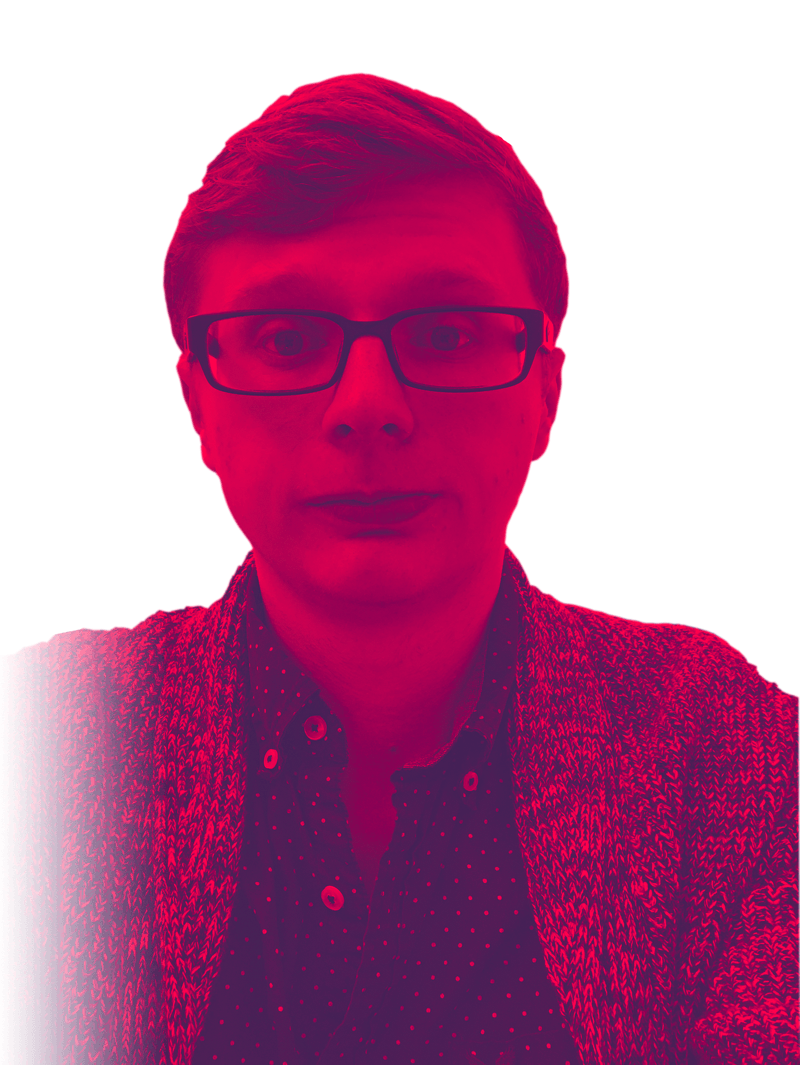
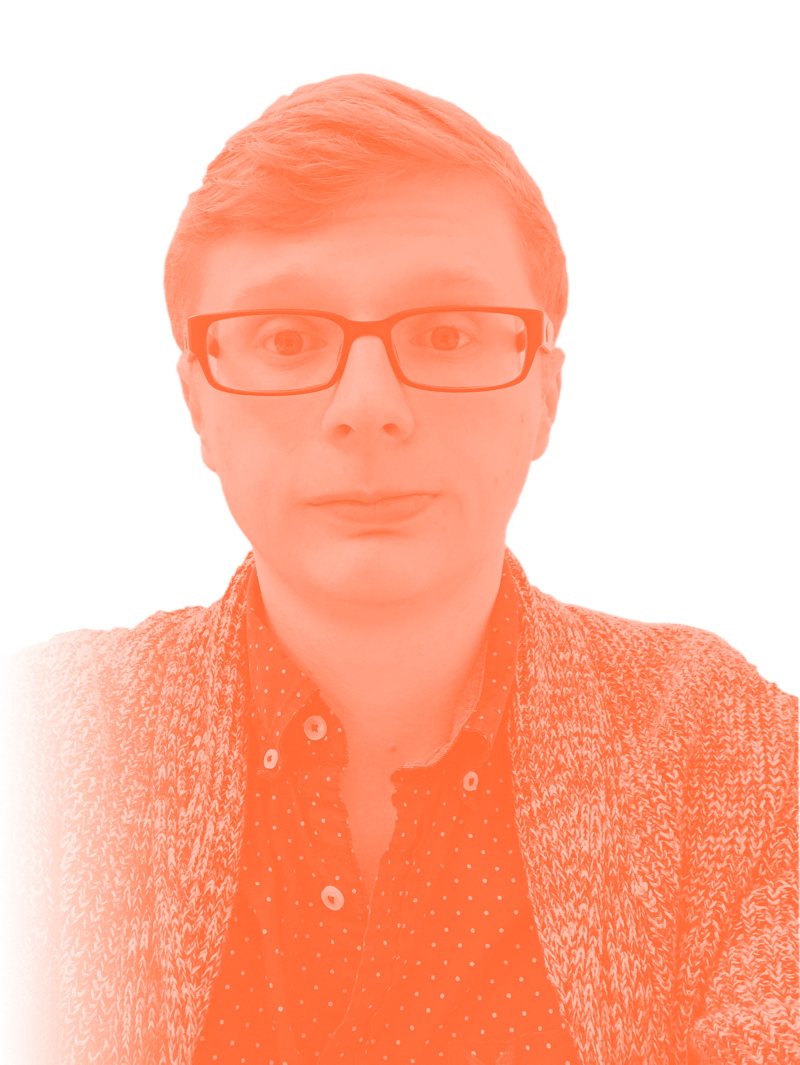
Fonts!

diff --git a/index.html b/index.html
@@ -5,11 +5,11 @@ title: Chase McCoy
 
 <div class="introduction bg-brand-accent clearfix table">
   <div class="pt6 pl10 pb6 col-xs-12 col-sm-6 float-none table-cell">
-    <p class="h1 extrabold color-white" id="site-title">Chase McCoy</p>
+    <p class="h1 extrabold color-cream" id="site-title">Chase McCoy</p>
 
-    <hr class="bg-component my3">
+    <hr class="bg-page my3">
 
-    <p class="pt4 h3 line-height-2 color-white">Lorem ipsum dolor sit amet, consectetur adipisicing elit, sed do eiusmod tempor incididunt ut labore et dolore magna aliqua.
+    <p class="pt4 h3 line-height-2 color-cream">Lorem ipsum dolor sit amet, consectetur adipisicing elit, sed do eiusmod tempor incididunt ut labore et dolore magna aliqua.
       Ut enim ad minim veniam, quis nostrud exercitation ullamco laboris nisi ut aliquip ex ea commodo consequat.</p>
   </div>
 
@@ -20,26 +20,49 @@ title: Chase McCoy
 <div class="nav" id="nav">
   <!-- <div class="nav-bar bg-brand-primary"></div> -->
 
-  <div class="rainbow">
+  <!-- <div class="rainbow">
     <div class="r1"></div>
     <div class="r2"></div>
     <div class="r3"></div>
     <div class="r4"></div>
     <div class="r5"></div>
     <div class="r6"></div>
+  </div> -->
+</div>
+
+<div class="portfolio bg-page">
+  <div class="container">
+    <div class="flex items-center pb6">
+      <div class="col-xs-12 col-sm-12 col-md-5">
+        <div class="h2 color-brand-primary bold portfolio-title">Portfolio</div>
+        <hr class="bg-brand-accent">
+      </div>
+
+      <div class="col-xs-12 col-sm-12 col-md-7">
+        <div class="color-brand-accent h4 line-height-3 py4 bold serif">Lorem ipsum dolor sit amet, consectetur adipisicing elit, sed do eiusmod tempor incididunt ut labore et dolore magna aliqua.</div>
+      </div>
+    </div>
+
+    <div class="portfolio-item clearfix">
+      <div class="col-md-12">
+        <img class="col-md-5 image px0" src="/assets/portfolio/owlery.png">
+        <span class="h3 color-brand-accent title">The Owlery</span><br>
+        <span class="h4 line-height-3 description">Lorem ipsum dolor sit amet, consectetur adipisicing elit, sed do eiusmod tempor incididunt ut labore et dolore magna aliqua. Ut enim ad minim veniam, quis nostrud exercitation ullamco laboris nisi ut aliquip ex ea commodo consequat. Duis aute irure dolor in reprehenderit in voluptate velit esse cillum dolore eu fugiat nulla pariatur. Excepteur sint occaecat cupidatat non proident, sunt in culpa qui officia deserunt mollit anim id est laborum.</span>
+      </div>
+    </div>
   </div>
 </div>
 
 <div class="portfolio bg-brand-primary">
-  <div class="container px0">
+  <div class="container">
     <div class="flex items-center">
-      <div class="col-xs-12 col-sm-12 col-md-7">
-        <div class="h2 color-white bold" id="portfolio-title">Portfolio</div>
+      <div class="col-xs-12 col-sm-12 col-md-5">
+        <div class="h2 color-cream bold portfolio-title">Portfolio</div>
         <hr class="bg-brand-accent">
       </div>
 
-      <div class="col-xs-12 col-sm-12 col-md-5">
-        <div class="color-brand-accent h4 line-height-3 py4">Lorem ipsum dolor sit amet, consectetur adipisicing elit, sed do eiusmod tempor incididunt ut labore et dolore magna aliqua.</div>
+      <div class="col-xs-12 col-sm-12 col-md-7">
+        <div class="color-cream h4 line-height-3 py4 bold serif">Lorem ipsum dolor sit amet, consectetur adipisicing elit, sed do eiusmod tempor incididunt ut labore et dolore magna aliqua.</div>
       </div>
     </div>
 

diff --git a/_sass/_config.scss b/_sass/_config.scss
@@ -98,9 +98,9 @@ $layout-count: 32;
 // ----------------------
 
 // Fonts
-$sans: "Tisa Sans Pro", "Proxima Nova", sans-serif;
-$serif: "Tisa Pro", serif;
-$script: "Lust Script", serif;
+$sans: "pt-sans", "Tisa Sans Pro", "Proxima Nova", sans-serif;
+$serif: "pt-serif", "Tisa Pro", serif;
+$script: "lust-script-display", "Lust Script", serif;
 
 //  TYPE SCALE ------------
 // Here we define the sizes for our heading elements using rem units.
@@ -111,7 +111,7 @@ $script: "Lust Script", serif;
 /// Font size for H1 elements
 /// @type Number (rem)
 /// @group Config
-$h1: 3.5rem;      // 32px
+$h1: 3.0rem;      // 32px
 
 /// Font size for H2 elements
 /// @type Number (rem)
@@ -121,7 +121,7 @@ $h2: 2.5rem;    // 24px
 /// Font size for H3 elements
 /// @type Number (rem)
 /// @group Config
-$h3: 2rem;   // 20px
+$h3: 2.0rem;   // 20px
 
 /// Font size for H4 elements
 /// @type Number (rem)
@@ -131,7 +131,7 @@ $h4: 1.5rem;      // 16px
 /// Font size for H5 elements
 /// @type Number (rem)
 /// @group Config
-$h5: 1rem;  // 14px
+$h5: 1.0rem;  // 14px
 
 /// Font size for H6 elements
 /// @type Number (rem)
@@ -190,6 +190,7 @@ $border-pill: 32px;
 // UI Color Definitions
 $white: #FFFFFF;
 $black: #000000;
+$cream: #FEFEF3;
 $phantom-gray: #56718C;
 $wraith-gray: #BCD3DE;
 $ghost-gray: #E1ECF2;
@@ -198,13 +199,14 @@ $shade-gray: #B7C3CE;
 $ui-palette: (
   white: $white,
   primary: $black,
+  cream: $cream,
   secondary: $phantom-gray,
   tertiary: $wraith-gray,
   placeholder: $ghost-gray,
 );
 
 $brand-primary-color: #3C2353;
-$brand-accent-color: #FF0051;
+$brand-accent-color: #f37042;
 
 $brand-primary: (
   brand-primary: $brand-primary-color,

diff --git a/_includes/footer.html b/_includes/footer.html
@@ -6,7 +6,7 @@
 <script src="assets/js/jquery.fittext.js"></script>
 <script>
   jQuery("#site-title").fitText(0.5);
-  jQuery("#portfolio-title").fitText(0.9);
+  jQuery(".portfolio-title").fitText(0.6);
 </script>
 
 <script src="assets/js/jribbble.min.js"></script>
@@ -20,15 +20,15 @@
     shots.forEach(function(shot) {
       var images = shot.images;
       var img = (images.hidpi) ? images.hidpi : images.normal;
-      html.push('<li class="shot px0">');
+      html.push('<li class="shot col-xs-12 col-sm-4 col-md-3">');
         html.push('<div class="shot card bg-component">');
           html.push('<a class="text-decoration-none" href="' + shot.html_url + '" target="_blank">');
           html.push('<div class="shot cover bg-brand-component" style="background-image: url(' + img + ')"></div></a>');
-          html.push('<div class="shot info"><a class="text-decoration-none color-brand-primary" href="' + shot.html_url + '" target="_blank"><h3 class="color-brand-primary bold center pb1">' + shot.title + '</h3></a>');
-          if (shot.description) {
-            html.push(shot.description);
-          }
-          html.push('</div>');
+          // html.push('<div class="shot info"><a class="text-decoration-none color-brand-primary" href="' + shot.html_url + '" target="_blank"><h3 class="color-brand-primary bold center pb1">' + shot.title + '</h3></a>');
+          // if (shot.description) {
+          //   html.push(shot.description);
+          // }
+          // html.push('</div>');
         html.push('</div>');
       html.push('</li>');
     });

diff --git a/_sass/landing.scss b/_sass/landing.scss
@@ -1,6 +1,6 @@
 .introduction {
   min-height: calc(100vh);
-  background-image: linear-gradient(135deg, $brand-accent-color 0%, $brand-primary-color 90%);
+  // background-image: linear-gradient(135deg, $brand-accent-color 0%, $brand-primary-color 90%);
 }
 
 .portrait {
@@ -14,7 +14,7 @@
   font-weight: 400;
 }
 
-.h2 {
+.h2, .h3 {
   font-family: $serif;
 }
 
@@ -64,39 +64,35 @@ hr {
 
   .container {
     padding: 1.5rem;
+
+    @include media-breakpoint-up(sm) {
+      padding: 1.5rem 4rem;
+    };
+  }
+
+  .portfolio-item {
+    .image {
+      margin: .5rem 0 1rem;
+
+      @include media-breakpoint-up(md) {
+        margin-right: 2.5rem;
+      };
+    }
   }
 }
 
 ul.shots {
-  column-gap: 1.5rem;
-
-  @media all {
-    column-count: 1;
-  }
-
-  @include media-breakpoint-up(sm) {
-    column-count: 3;
-  };
-
-  @include media-breakpoint-up(md) {
-    column-count: 4;
-  };
-
   li.shot {
-    width: 100%;
-    margin-bottom: 1.5rem;
-    display: inline-block;
-
+    margin-bottom: gutter() * 2;
     p { color: map-get($brand-primary, brand-primary-low); }
     a { word-wrap: break-word; }
 
     .card {
       border-radius: 8px;
-      // border: 4px solid rgba($brand-primary-color, 0.7);
     }
 
     .cover {
-      border-radius: 8px 8px 0 0;
+      border-radius: 8px;
 
       background-position: center center;
       @include aspect-ratio(4, 3);
@@ -174,10 +170,6 @@ ul.shots {
 
     .h1 {
       padding: 1rem 0;
-    }
-
-    .h3 {
-      padding: 1rem 0 2rem;
     }
   }
 };

diff --git a/_sass/_grid.scss b/_sass/_grid.scss
@@ -8,7 +8,8 @@
       @media all {
         @for $i from 1 through map-get($susy, columns) {
           .col-#{$bp-name}-#{$i} {
-            @include span($i)
+            @include span($i);
+            min-height: 1px;
           }
         }
       }
@@ -17,7 +18,8 @@
       @include media-breakpoint-up($bp-name) {
         @for $i from 1 through map-get($susy, columns) {
           .col-#{$bp-name}-#{$i} {
-            @include span($i)
+            @include span($i);
+            min-height: 1px;
           }
         }
       }

diff --git a/_includes/head.html b/_includes/head.html
@@ -1,6 +1,9 @@
 <!DOCTYPE html>
 <html>
 <head>
+  <script src="https://use.typekit.net/hlq2nvx.js"></script>
+  <script>try{Typekit.load({ async: true });}catch(e){}</script>
+  
   <meta charset="utf-8">
   <meta name="viewport" content="width=device-width, initial-scale=1.0">
   <meta http-equiv="X-UA-Compatible" content="IE=edge">

diff --git a/_sass/global.scss b/_sass/global.scss
@@ -1,3 +1,11 @@
 html {
   font-size: 18px;
+  color: $brand-primary-color;
+}
+
+img {
+  max-width: 100%;
+  border-radius: 8px;
+  box-shadow: 0px 0px 24px 10px rgba($brand-primary-color, 0.15);
+  border: 1px solid rgba($brand-primary-color, 0.3);
 }

diff --git a/_sass/_typography.scss b/_sass/_typography.scss
@@ -2,6 +2,9 @@ body {
   font-family: $sans;
 }
 
+.sans { font-family: $sans; }
+.serif { font-family: $serif; }
+
 .h1 { font-size: $h1; }
 .h2 { font-size: $h2; }
 .h3 { font-size: $h3; }

diff --git a/_sass/_background.scss b/_sass/_background.scss
@@ -1,5 +1,5 @@
 .bg-page {
-  background-color: $shade-gray;
+  background-color: $cream;
 }
 
 .bg-component {
